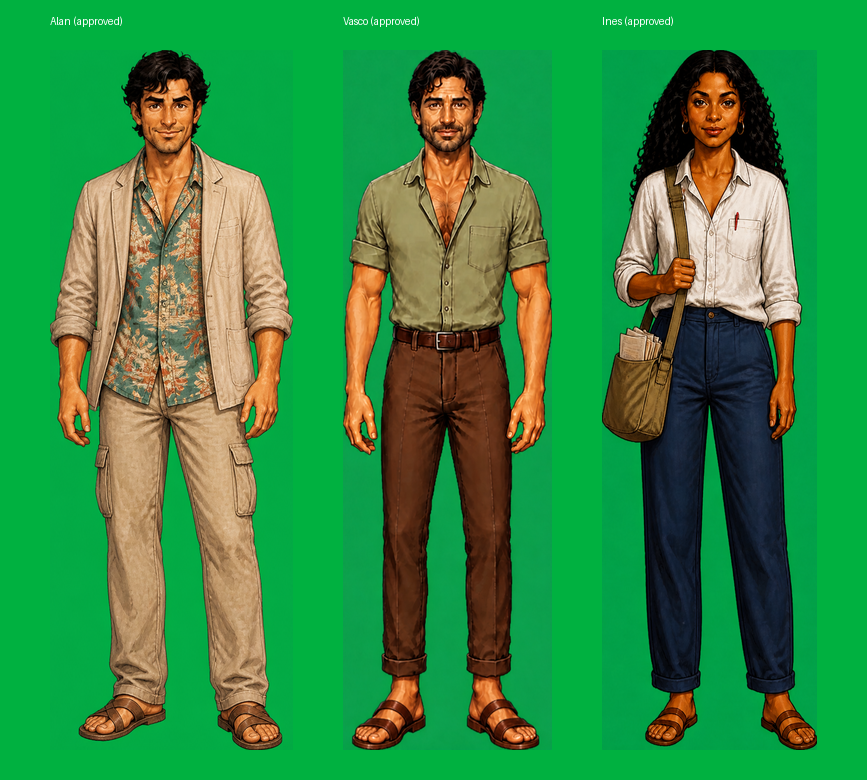
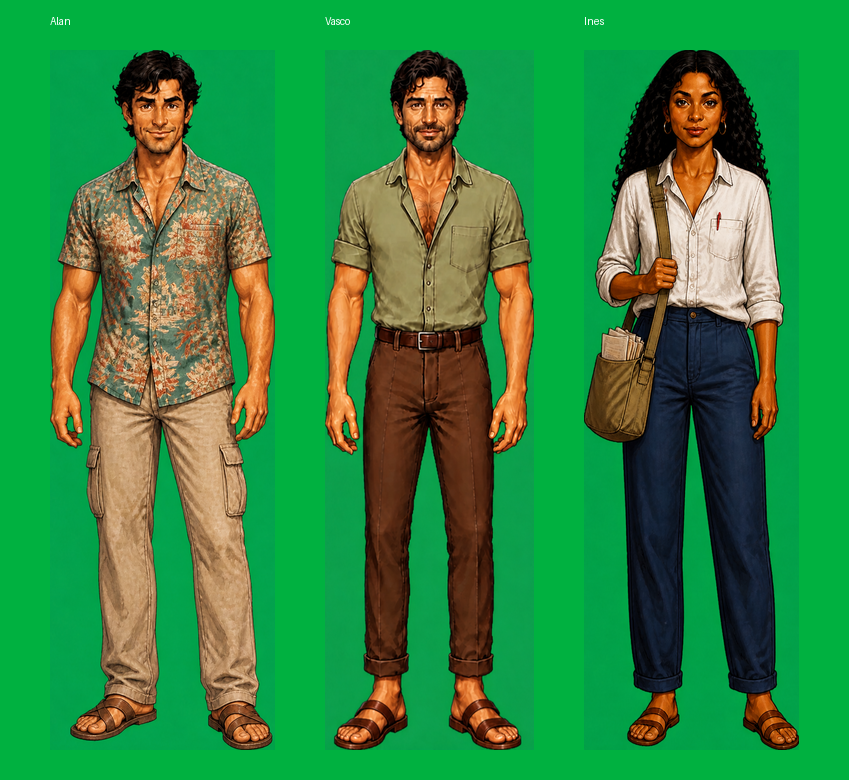
Game III: Alan's front without the blazer (short-sleeved print shirt)
Claude-Session: https://claude.ai/code/session_016HTeTLVCAEjsHTgtpyKYsR

diff --git a/game3/art/canva/log.md b/game3/art/canva/log.md
@@ -27,3 +27,5 @@ References uploaded: Alan's Game II front (`alanb_front_k`, media MAHZ7A6780k, t
 - 2026-11-04 figure `vasco_g3_front_h` Canva media MAHZ7Omzld8 -> art/designs/vasco_g3_front_h.png the same recoloured terracotta shirt, khaki-olive trousers; not taken
 - 2026-11-04 figure `vasco_g3_front_g2` Canva media MAHZ7KqBrsQ -> art/designs/vasco_g3_front_g2.png G with dark brown leather sandals (the user: "just give him sandals"). APPROVED (the user: "vasco approved")
 - 2026-11-04 sheet art/designs/g3_front_approved.png: the three approved fronts
+- 2026-11-04 figure `alan_g3_front_d2` Canva media MAHZ7A77h90 -> art/designs/alan_g3_front_d2.png D without the blazer: the short-sleeved print shirt, cargo trousers, sandals (the user: "drop the blazer from Alan - he is in a short sleeve shirt"); replaces D as Alan's front (waiting for the user's word on the result)
+- 2026-11-04 sheet art/designs/g3_front_approved.png rebuilt with alan_g3_front_d2

diff --git a/game3/docs/HANDOFF.md b/game3/docs/HANDOFF.md
@@ -141,3 +141,7 @@ but Alan).
    approved fronts: `alan_g3_front_d.png`, `vasco_g3_front_g2.png`, `ines_g3_front_v2.png`; together on
    `art/designs/g3_front_approved.png`. Next for them, when asked: side and back views from these, then the cut-outs
    (`figure_cut.py`'s method) once the engine is forked.
+6. **Alan without the blazer** (2026-11-04, the user: "drop the blazer from Alan - he is in a short sleeve shirt").
+   `art/designs/alan_g3_front_d2.png` (media MAHZ7A77h90): D's print shirt, cargo trousers and sandals, no blazer. It
+   is now Alan's front on `g3_front_approved.png`. Note for the story: the bible's linen jacket (Yunior's price, S10)
+   is no longer on him; it can be carried, or come out of his luggage that day.
